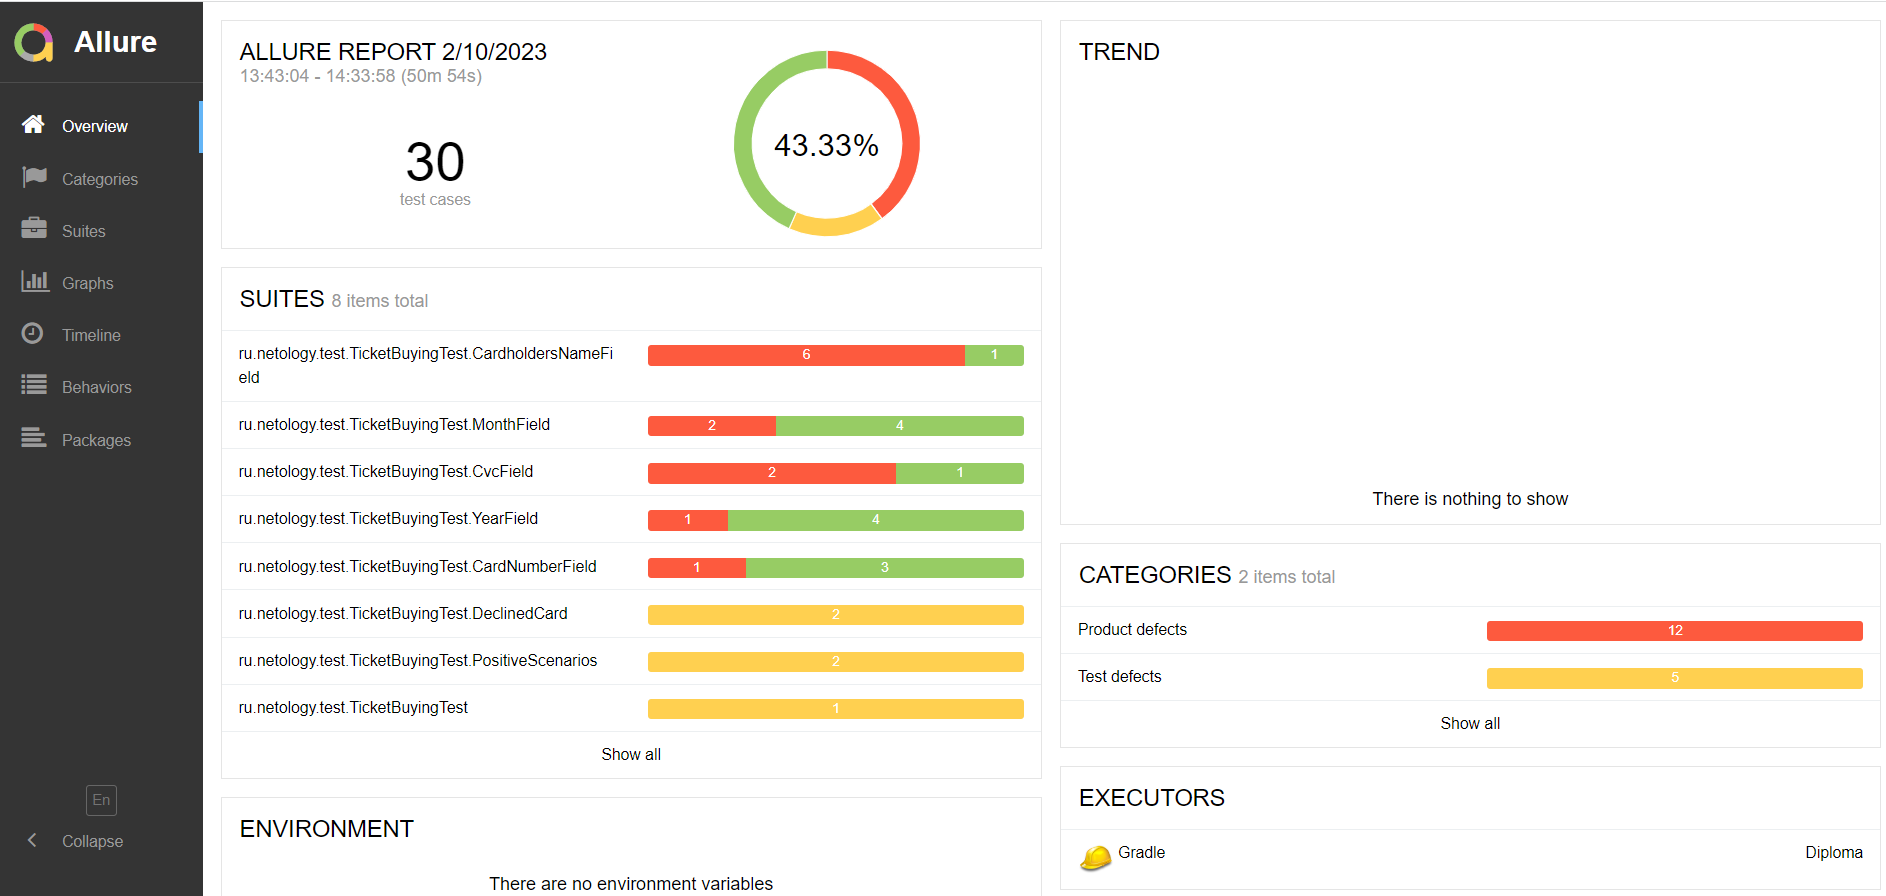
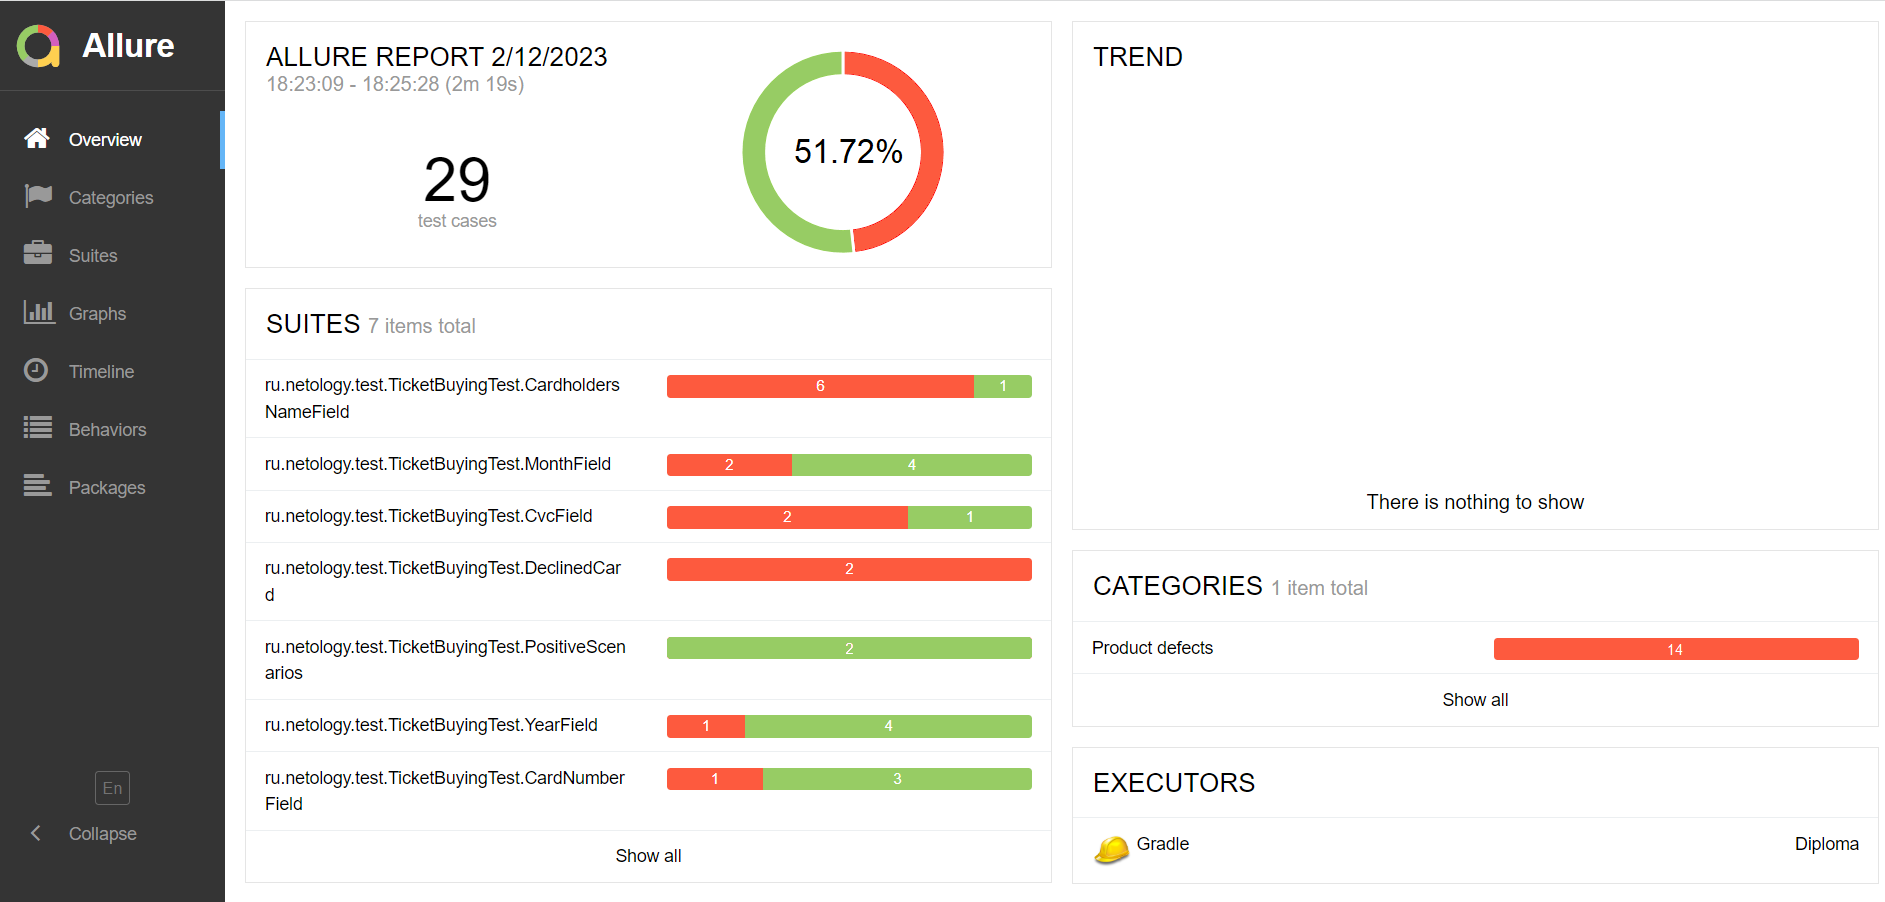
change broken tests

diff --git a/src/test/java/ru/netology/test/TicketBuyingTest.java b/src/test/java/ru/netology/test/TicketBuyingTest.java
@@ -7,7 +7,6 @@ import org.junit.jupiter.api.*;
 import ru.netology.data.DataGenerator;
 import ru.netology.pages.TicketBuyingPage;
 
-import static com.codeborne.selenide.Selenide.open;
 import static org.junit.jupiter.api.Assertions.assertEquals;
 import static ru.netology.data.DataGenerator.*;
 import static ru.netology.data.DbHelper.*;
@@ -17,12 +16,7 @@ public class TicketBuyingTest {
     @BeforeAll
     public static void setUpAll() {
         SelenideLogger.addListener("allure", new AllureSelenide());
-    }
-
-    @BeforeEach
-    public void openPage() {
         Configuration.headless = true;
-        open("http://localhost:8080");
     }
 
     @AfterAll
@@ -38,6 +32,7 @@ public class TicketBuyingTest {
         public void shouldBuyWithValidCard() {
             var cardData = getValidApprovedCard();
             var ticketBuyingPage = new TicketBuyingPage();
+            ticketBuyingPage.openPage();
             ticketBuyingPage.chooseDebitCard();
             ticketBuyingPage.sendDataInForm(cardData.getNumber(), cardData.getMonth(), cardData.getYear(),
                     cardData.getOwner(), cardData.getCvc());
@@ -55,6 +50,7 @@ public class TicketBuyingTest {
         public void shouldBuyWithCreditValidCard() {
             var cardData = getValidApprovedCard();
             var ticketBuyingPage = new TicketBuyingPage();
+            ticketBuyingPage.openPage();
             ticketBuyingPage.chooseCreditCard();
             ticketBuyingPage.sendDataInForm(cardData.getNumber(), cardData.getMonth(), cardData.getYear(),
                     cardData.getOwner(), cardData.getCvc());
@@ -75,6 +71,7 @@ public class TicketBuyingTest {
         public void buyWithDeclinedCard() {
             var cardData = getValidDeclinedCard();
             var ticketBuyingPage = new TicketBuyingPage();
+            ticketBuyingPage.openPage();
             ticketBuyingPage.chooseDebitCard();
             ticketBuyingPage.sendDataInForm(cardData.getNumber(), cardData.getMonth(), cardData.getYear(),
                     cardData.getOwner(), cardData.getCvc());
@@ -91,6 +88,7 @@ public class TicketBuyingTest {
         public void buyCreditDeclinedCard() {
             var cardData = getValidDeclinedCard();
             var ticketBuyingPage = new TicketBuyingPage();
+            ticketBuyingPage.openPage();
             ticketBuyingPage.chooseCreditCard();
             ticketBuyingPage.sendDataInForm(cardData.getNumber(), cardData.getMonth(), cardData.getYear(),
                     cardData.getOwner(), cardData.getCvc());
@@ -111,6 +109,7 @@ public class TicketBuyingTest {
         public void thirteenDigitsCardNumber() {
             var cardData = getValidDeclinedCard();
             var ticketBuyingPage = new TicketBuyingPage();
+            ticketBuyingPage.openPage();
             ticketBuyingPage.chooseDebitCard();
             ticketBuyingPage.sendDataInForm(getCardNumberWith13Digits(), cardData.getMonth(), cardData.getYear(),
                     cardData.getOwner(), cardData.getCvc());
@@ -122,6 +121,7 @@ public class TicketBuyingTest {
         public void sixteenZeroCardNumber() {
             var cardData = getValidDeclinedCard();
             var ticketBuyingPage = new TicketBuyingPage();
+            ticketBuyingPage.openPage();
             ticketBuyingPage.chooseDebitCard();
             ticketBuyingPage.sendDataInForm(getCardNumberWith16Zero(), cardData.getMonth(), cardData.getYear(),
                     cardData.getOwner(), cardData.getCvc());
@@ -133,6 +133,7 @@ public class TicketBuyingTest {
         public void invalidCardNumber() {
             var cardData = getValidDeclinedCard();
             var ticketBuyingPage = new TicketBuyingPage();
+            ticketBuyingPage.openPage();
             ticketBuyingPage.chooseDebitCard();
             ticketBuyingPage.sendDataInForm(getInvalidCardNumber(), cardData.getMonth(), cardData.getYear(),
                     cardData.getOwner(), cardData.getCvc());
@@ -144,6 +145,7 @@ public class TicketBuyingTest {
         public void shouldAppearCardNumberError() {
             var cardData = getValidDeclinedCard();
             var ticketBuyingPage = new TicketBuyingPage();
+            ticketBuyingPage.openPage();
             ticketBuyingPage.chooseDebitCard();
             ticketBuyingPage.sendDataInForm(getEmptyCardNumber(), cardData.getMonth(), cardData.getYear(),
                     cardData.getOwner(), cardData.getCvc());
@@ -160,6 +162,7 @@ public class TicketBuyingTest {
             var cardData = getValidDeclinedCard();
             var month = DataGenerator.getTwoDigitsGreaterThan12();
             var ticketBuyingPage = new TicketBuyingPage();
+            ticketBuyingPage.openPage();
             ticketBuyingPage.chooseDebitCard();
             ticketBuyingPage.sendDataInForm(cardData.getNumber(), month, cardData.getYear(),
                     cardData.getOwner(), cardData.getCvc());
@@ -172,6 +175,7 @@ public class TicketBuyingTest {
             var cardData = getValidDeclinedCard();
             var month = getZeroDigit();
             var ticketBuyingPage = new TicketBuyingPage();
+            ticketBuyingPage.openPage();
             ticketBuyingPage.chooseDebitCard();
             ticketBuyingPage.sendDataInForm(cardData.getNumber(), month, cardData.getYear(),
                     cardData.getOwner(), cardData.getCvc());
@@ -184,6 +188,7 @@ public class TicketBuyingTest {
             var cardData = getValidDeclinedCard();
             var month = getTwoZeroDigits();
             var ticketBuyingPage = new TicketBuyingPage();
+            ticketBuyingPage.openPage();
             ticketBuyingPage.chooseDebitCard();
             ticketBuyingPage.sendDataInForm(cardData.getNumber(), month, cardData.getYear(),
                     cardData.getOwner(), cardData.getCvc());
@@ -195,6 +200,7 @@ public class TicketBuyingTest {
         public void oneDigitInMonth() {
             var cardData = getValidApprovedCard();
             var ticketBuyingPage = new TicketBuyingPage();
+            ticketBuyingPage.openPage();
             ticketBuyingPage.chooseDebitCard();
             ticketBuyingPage.sendDataInForm(cardData.getNumber(), getOneDigit(), cardData.getYear(),
                     cardData.getOwner(), cardData.getCvc());
@@ -206,6 +212,7 @@ public class TicketBuyingTest {
         public void previousMonthAndCurrentYear() {
             var cardData = getValidApprovedCard();
             var ticketBuyingPage = new TicketBuyingPage();
+            ticketBuyingPage.openPage();
             ticketBuyingPage.chooseDebitCard();
             ticketBuyingPage.sendDataInForm(cardData.getNumber(), getMonth(-1), getYear(0),
                     cardData.getOwner(), cardData.getCvc());
@@ -218,6 +225,7 @@ public class TicketBuyingTest {
         public void shouldAppearMonthError() {
             var cardData = getValidDeclinedCard();
             var ticketBuyingPage = new TicketBuyingPage();
+            ticketBuyingPage.openPage();
             ticketBuyingPage.chooseDebitCard();
             ticketBuyingPage.sendDataInForm(cardData.getNumber(), getEmptyMonth(), cardData.getYear(),
                     cardData.getOwner(), cardData.getCvc());
@@ -233,6 +241,7 @@ public class TicketBuyingTest {
         public void oneDigitYear() {
             var cardData = getValidApprovedCard();
             var ticketBuyingPage = new TicketBuyingPage();
+            ticketBuyingPage.openPage();
             ticketBuyingPage.chooseDebitCard();
             ticketBuyingPage.sendDataInForm(cardData.getNumber(), cardData.getMonth(), getOneDigit(),
                     cardData.getOwner(), cardData.getCvc());
@@ -244,6 +253,7 @@ public class TicketBuyingTest {
         public void oldYear() {
             var cardData = getValidApprovedCard();
             var ticketBuyingPage = new TicketBuyingPage();
+            ticketBuyingPage.openPage();
             ticketBuyingPage.chooseDebitCard();
             ticketBuyingPage.sendDataInForm(cardData.getNumber(), cardData.getMonth(), getYear(-1),
                     cardData.getOwner(), cardData.getCvc());
@@ -256,6 +266,7 @@ public class TicketBuyingTest {
             var cardData = getValidApprovedCard();
             var year = "00";
             var ticketBuyingPage = new TicketBuyingPage();
+            ticketBuyingPage.openPage();
             ticketBuyingPage.chooseDebitCard();
             ticketBuyingPage.sendDataInForm(cardData.getNumber(), cardData.getMonth(), year,
                     cardData.getOwner(), cardData.getCvc());
@@ -267,6 +278,7 @@ public class TicketBuyingTest {
         public void greatestYear() {
             var cardData = getValidApprovedCard();
             var ticketBuyingPage = new TicketBuyingPage();
+            ticketBuyingPage.openPage();
             ticketBuyingPage.chooseDebitCard();
             ticketBuyingPage.sendDataInForm(cardData.getNumber(), cardData.getMonth(), getTwoDigitsGreaterThan28(),
                     cardData.getOwner(), cardData.getCvc());
@@ -278,6 +290,7 @@ public class TicketBuyingTest {
         public void shouldAppearYearError() {
             var cardData = getValidDeclinedCard();
             var ticketBuyingPage = new TicketBuyingPage();
+            ticketBuyingPage.openPage();
             ticketBuyingPage.chooseDebitCard();
             ticketBuyingPage.sendDataInForm(cardData.getNumber(), cardData.getMonth(), getEmptyYear(),
                     cardData.getOwner(), cardData.getCvc());
@@ -293,6 +306,7 @@ public class TicketBuyingTest {
         public void cardholderFigures() {
             var cardData = getValidDeclinedCard();
             var ticketBuyingPage = new TicketBuyingPage();
+            ticketBuyingPage.openPage();
             ticketBuyingPage.chooseDebitCard();
             ticketBuyingPage.sendDataInForm(cardData.getNumber(), cardData.getMonth(), cardData.getYear(),
                     getOwnerWithFigures(), cardData.getCvc());
@@ -304,6 +318,7 @@ public class TicketBuyingTest {
         public void cardholderSymbols() {
             var cardData = getValidDeclinedCard();
             var ticketBuyingPage = new TicketBuyingPage();
+            ticketBuyingPage.openPage();
             ticketBuyingPage.chooseDebitCard();
             ticketBuyingPage.sendDataInForm(cardData.getNumber(), cardData.getMonth(), cardData.getYear(),
                     getOwnerWithSymbols(), cardData.getCvc());
@@ -315,6 +330,7 @@ public class TicketBuyingTest {
         public void cardholderOnCyrillic() {
             var cardData = getValidDeclinedCard();
             var ticketBuyingPage = new TicketBuyingPage();
+            ticketBuyingPage.openPage();
             ticketBuyingPage.chooseDebitCard();
             ticketBuyingPage.sendDataInForm(cardData.getNumber(), cardData.getMonth(), cardData.getYear(),
                     getOwnerWithCyrillic(), cardData.getCvc());
@@ -326,6 +342,7 @@ public class TicketBuyingTest {
         public void cardholderLowerCase() {
             var cardData = getValidDeclinedCard();
             var ticketBuyingPage = new TicketBuyingPage();
+            ticketBuyingPage.openPage();
             ticketBuyingPage.chooseDebitCard();
             ticketBuyingPage.sendDataInForm(cardData.getNumber(), cardData.getMonth(), cardData.getYear(),
                     getOwnerWithLatinLowerCase(), cardData.getCvc());
@@ -337,6 +354,7 @@ public class TicketBuyingTest {
         public void cardholderCapitalLetters() {
             var cardData = getValidDeclinedCard();
             var ticketBuyingPage = new TicketBuyingPage();
+            ticketBuyingPage.openPage();
             ticketBuyingPage.chooseDebitCard();
             ticketBuyingPage.sendDataInForm(cardData.getNumber(), cardData.getMonth(), cardData.getYear(),
                     getOwnerWithCapitalLetters(), cardData.getCvc());
@@ -348,6 +366,7 @@ public class TicketBuyingTest {
         public void cardholderGreaterThan85() {
             var cardData = getValidDeclinedCard();
             var ticketBuyingPage = new TicketBuyingPage();
+            ticketBuyingPage.openPage();
             ticketBuyingPage.chooseDebitCard();
             ticketBuyingPage.sendDataInForm(cardData.getNumber(), cardData.getMonth(), cardData.getYear(),
                     getOwnerWithLatinUpperCaseMoreThan85Symbols(), cardData.getCvc());
@@ -359,6 +378,7 @@ public class TicketBuyingTest {
         public void shouldAppearOwnerError() {
             var cardData = getValidDeclinedCard();
             var ticketBuyingPage = new TicketBuyingPage();
+            ticketBuyingPage.openPage();
             ticketBuyingPage.chooseDebitCard();
             ticketBuyingPage.sendDataInForm(cardData.getNumber(), cardData.getMonth(), cardData.getYear(), getEmptyOwner(), cardData.getCvc());
             ticketBuyingPage.ownerErrorFilling();
@@ -374,6 +394,7 @@ public class TicketBuyingTest {
             var cardData = getValidDeclinedCard();
             var cvc = "000";
             var ticketBuyingPage = new TicketBuyingPage();
+            ticketBuyingPage.openPage();
             ticketBuyingPage.chooseDebitCard();
             ticketBuyingPage.sendDataInForm(cardData.getNumber(), cardData.getMonth(), cardData.getYear(),
                     cardData.getOwner(), cvc);
@@ -385,6 +406,7 @@ public class TicketBuyingTest {
         public void lessThan3DigitsCvc() {
             var cardData = getValidDeclinedCard();
             var ticketBuyingPage = new TicketBuyingPage();
+            ticketBuyingPage.openPage();
             ticketBuyingPage.chooseDebitCard();
             ticketBuyingPage.sendDataInForm(cardData.getNumber(), cardData.getMonth(), cardData.getYear(),
                     cardData.getOwner(), getLessThan3Cvc());
@@ -396,6 +418,7 @@ public class TicketBuyingTest {
         public void shouldAppearCvcError() {
             var cardData = getValidDeclinedCard();
             var ticketBuyingPage = new TicketBuyingPage();
+            ticketBuyingPage.openPage();
             ticketBuyingPage.chooseDebitCard();
             ticketBuyingPage.sendDataInForm(cardData.getNumber(), cardData.getMonth(), cardData.getYear(),
                     cardData.getOwner(), getEmptyCVC());

diff --git a/src/test/java/ru/netology/pages/TicketBuyingPage.java b/src/test/java/ru/netology/pages/TicketBuyingPage.java
@@ -6,10 +6,11 @@ import com.codeborne.selenide.SelenideElement;
 import java.time.Duration;
 
 import static com.codeborne.selenide.Selectors.byText;
-import static com.codeborne.selenide.Selenide.$;
-import static com.codeborne.selenide.Selenide.$x;
+import static com.codeborne.selenide.Selenide.*;
+
 public class TicketBuyingPage {
 
+    private final SelenideElement startPage = $(byText("Путешествие дня"));
     private final SelenideElement debitTitle = $(byText("Оплата по карте"));
     private final SelenideElement creditTitle = $(byText("Кредит по данным карты"));
 
@@ -31,6 +32,12 @@ public class TicketBuyingPage {
     private final SelenideElement notificationError = $x("//div[contains(@class, 'notification_status_error')]");
 
     private final SelenideElement notificationSuccess = $(".notification_status_ok");
+
+    public void openPage() {
+        open("http://localhost:8080");
+        startPage.shouldBe(Condition.visible);
+        continueButton.shouldBe(Condition.hidden);
+    }
 
     public void chooseDebitCard() {
         debitButton.click();

diff --git a/docs/Report.md b/docs/Report.md
@@ -11,8 +11,6 @@
 - Отсутствует надпись под полем при вводе невалидных значений, и успешно проходит оплата **_8/14_**  
 
 ![image](https://github.com/UniverseQA/Diploma/blob/main/png/allure-report.png?raw=true)
-![image](https://github.com/UniverseQA/Diploma/blob/main/png/a-r-1.png?raw=true)
-![image](https://github.com/UniverseQA/Diploma/blob/main/png/a-r-2.png?raw=true)
 
 ### Общие рекомендации 
 - Исправить все найденные ошибки;  
